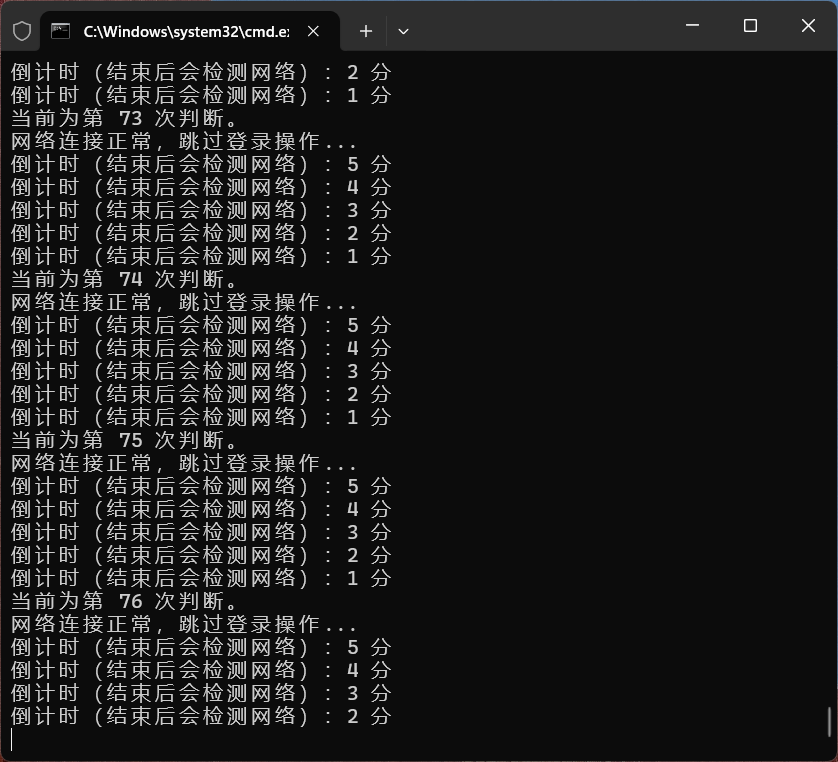
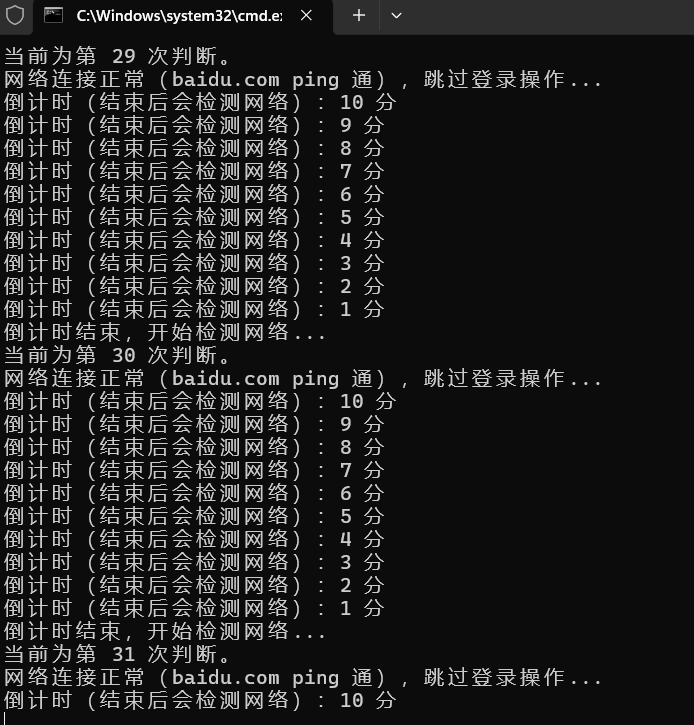
笔记更新

Changed region(s): [[0.0, 0.0, 1.0, 1.0], [0.6052, 0.4855, 0.817, 0.5462], [0.6052, 0.9103, 0.817, 0.9407]]

diff --git a/content/post/auto-login-net-jxust/index.md b/content/post/auto-login-net-jxust/index.md
@@ -93,7 +93,9 @@ shell:startup
 <img src="./auto-login-net-jxust.assets/start.png" width="70%" align="center" /><br>
 ## 补充
 有的时候电脑开机后没有自动连接到校园网，自然也无法完成登录请求。<br>
-所以在ping不通网络后增加增加一段操作，使电脑先连接校园网再执行登录操作。<br>
+由于只ping一个站点有时会造成误判，从而反复执行。所以增加一次操作，对baidu.com和qq.com均ping一次，<br>
+只有在两次都ping不通的情况下，才会去执行操作，使电脑先连接校园网再执行登录操作。<br>
+对代码循环执行时间调整为10分钟一次<br>
 本校的校园网名称为“JXUST-WLAN”，所以经过修改后的代码应该这么写：<br>
 
 ```
@@ -109,43 +111,54 @@ set SSID=JXUST-WLAN
 set /a counter+=1
 :: 输出当前是第几次判断
 echo 当前为第 !counter! 次判断。
-:: 检测是否有网络连接（超时 10 秒）
+:: 检测是否有网络连接（ping baidu.com 或 qq.com，超时 10 秒）
 ping -n 1 -w 10000 baidu.com >nul 2>&1
 if errorlevel 1 (
-    echo 无网络连接（ping超时10秒），尝试在浏览器中访问登录页面...
-    :: 指定浏览器路径（假设使用 Chrome）打开指定网址
-    start "" "http://10.17.8.18:801/eportal/portal/login?callback=dr1003&login_method=1&user_account=1520193097%%40telecom&user_password=AYLJ0629520zj"
-    echo 登录页面已在浏览器中打开。
-    :: 获取当前连接的 SSID
-    for /f "tokens=2 delims=:" %%i in ('netsh wlan show interfaces ^| findstr /i "SSID"') do (
-        set currentSSID=%%i
-        :: 去除前后空格
-        set currentSSID=!currentSSID: =!
-    )
-    :: 判断是否已经连接到指定的 WLAN 网络
-    if /i "%currentSSID%"=="%SSID%" (
-        echo 已经连接到网络 %SSID%，跳过连接操作。
-    ) else (
-        echo 未连接到指定网络 %SSID%，尝试连接...
-        :: 执行连接操作
-        netsh wlan connect name=%SSID%
+    echo 百度 ping 超时，尝试 ping qq.com...
+    ping -n 1 -w 10000 qq.com >nul 2>&1
+    if errorlevel 1 (
+        echo 无网络连接（百度和qq.com都 ping 超时），尝试在浏览器中访问登录页面...
+        :: 指定浏览器路径（假设使用 Chrome）打开指定网址
+        start "" "http://10.17.8.18:801/eportal/portal/login?callback=dr1003&login_method=1&user_account=1520193097%%40telecom&user_password=AYLJ0629520zj"
+        echo 登录页面已在浏览器中打开。
 
-        :: 等待一段时间，确保网络连接
-        timeout /t 10 >nul
-        echo 连接操作完成。
-    )
+        :: 获取当前连接的 SSID
+        for /f "tokens=2 delims=:" %%i in ('netsh wlan show interfaces ^| findstr /i "SSID"') do (
+            set currentSSID=%%i
+            :: 去除前后空格
+            set currentSSID=!currentSSID: =!
+        )
+
+        :: 判断是否已经连接到指定的 WLAN 网络
+        if /i "%currentSSID%"=="%SSID%" (
+            echo 已经连接到网络 %SSID%，跳过连接操作。
+        ) else (
+            echo 未连接到指定网络 %SSID%，尝试连接...
+            :: 执行连接操作
+            netsh wlan connect name=%SSID%
+
+            :: 等待一段时间，确保网络连接
+            timeout /t 10 >nul
+            echo 连接操作完成。
+        )
 start "" "http://10.17.8.18:801/eportal/portal/login?callback=dr1003&login_method=1&user_account=1520193097%%40telecom&user_password=AYLJ0629520zj"
+    ) else (
+        echo 网络连接正常（qq.com ping 通），跳过登录操作...
+    )
 ) else (
-    echo 网络连接正常，跳过登录操作...
+    echo 网络连接正常（baidu.com ping 通），跳过登录操作...
 )
-:: 倒计时循环输出（每分钟输出一次）
-for /l %%i in (5,-1,1) do (
+
+:: 倒计时循环输出（每 10 分钟输出一次）
+for /l %%i in (10,-1,1) do (
     set /a minutes=%%i
     echo 倒计时（结束后会检测网络）：!minutes! 分
     timeout /t 60 >nul
 )
+echo 倒计时结束，开始检测网络...
 :: 循环检测
 goto loop
+
 ```
 <br>
 <big>至此，全部完成</big><br>

diff --git a/content/post/boom-beach/index.md b/content/post/boom-beach/index.md
@@ -29,7 +29,7 @@ ULGOXKK
 VZNKMZK
 ```
 [obsidian常用技巧](https://publish.obsidian.md/chinesehelp)，
-[中文论坛](https://forum-zh.obsidian.md/)<br>
+[中文论坛](https://forum-zh.obsidian.md/)<br><br>
 小号QQ：
 - 龙行天下<br>
 - 注册手机一加12<br>
